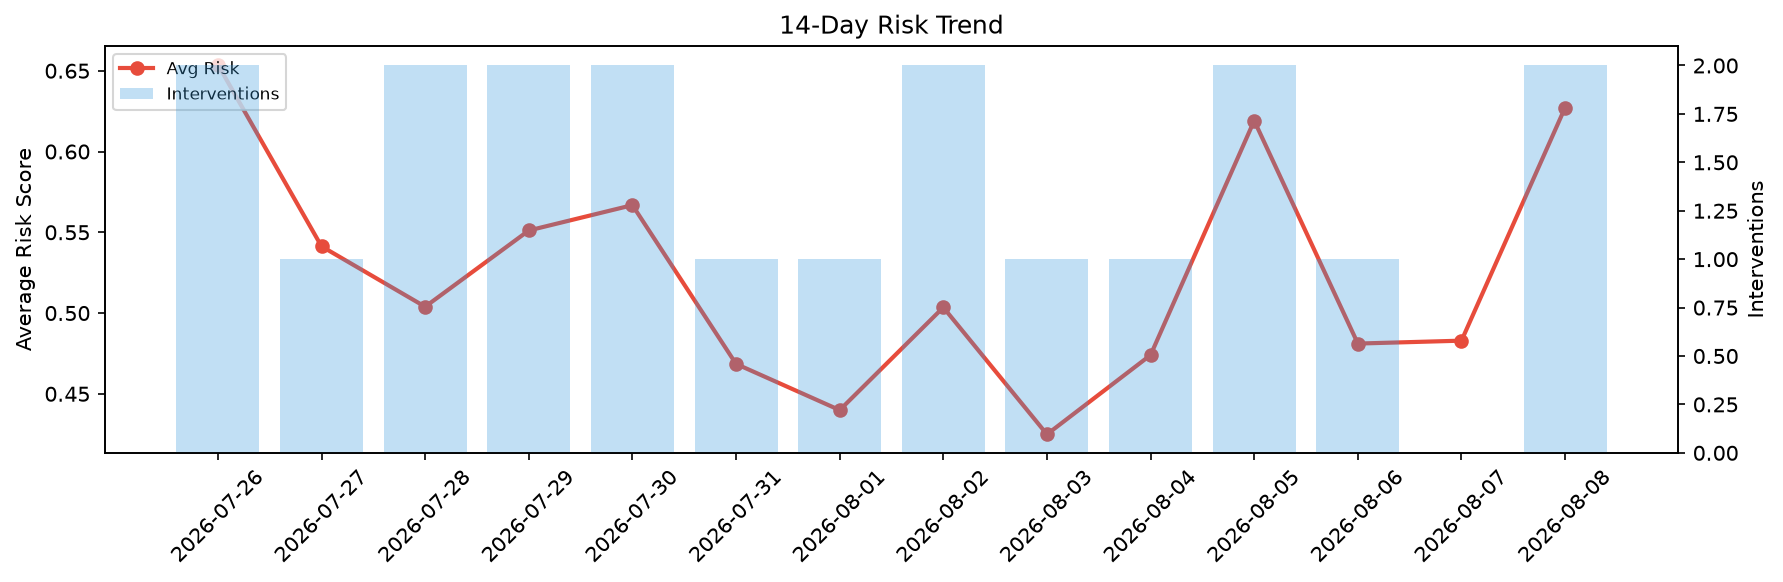
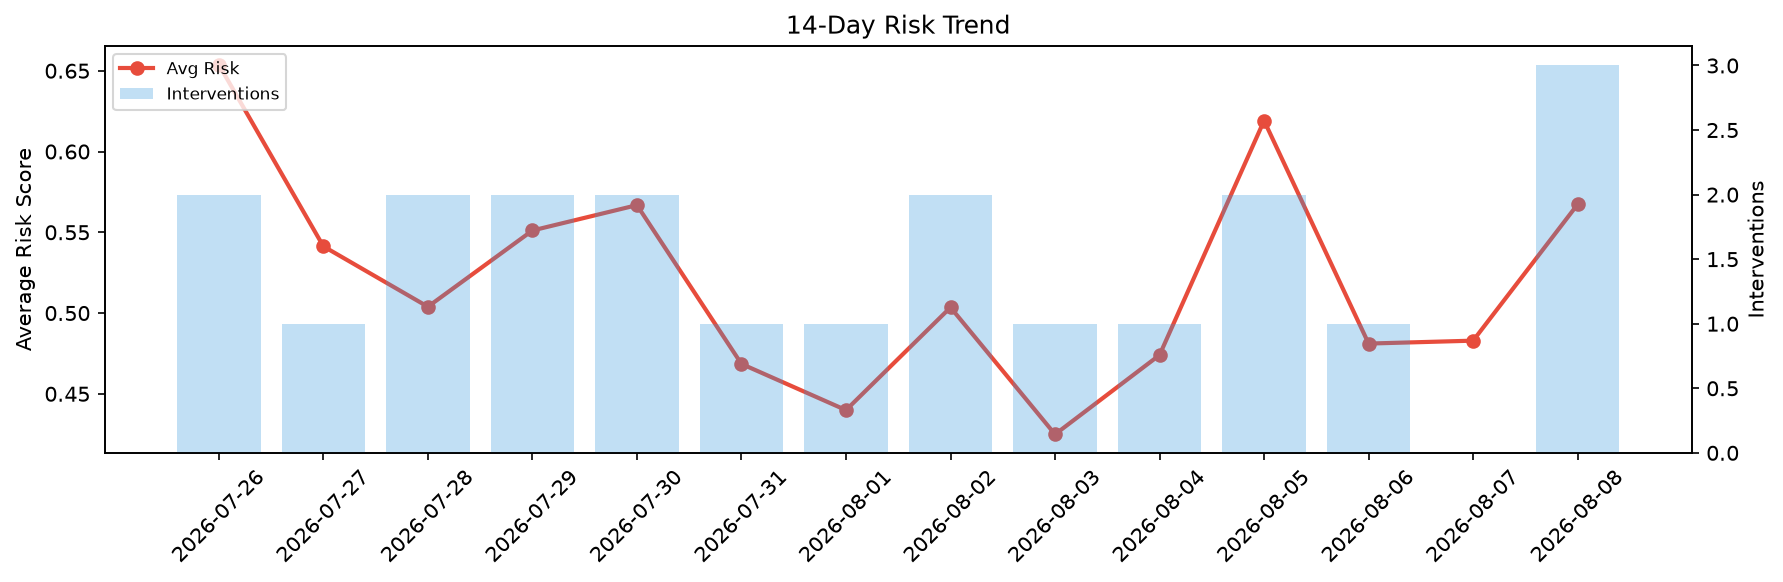
agent-improvement: daily cycle 2026-08-08T20:46

diff --git a/logs/2026-08-08.md b/logs/2026-08-08.md
@@ -1,6 +1,6 @@
 # Agent Improvement Report — 2026-08-08
 
-**Cycle ID:** `ea5a6a03` | **Avg Risk:** 0.6272 | **Interventions:** 2/4
+**Cycle ID:** `554a3c42` | **Avg Risk:** 0.5673 | **Interventions:** 3/4
 
 ![Dashboard](2026-08-08_dashboard.png)
 
@@ -10,18 +10,18 @@
 
 | Domain | Risk Score | Decision | Alerts |
 |--------|-----------|----------|--------|
-| code_review | 0.8938 | intervene | complexity, duplication, coverage |
-| incident_response | 0.6984 | intervene | severity, blast_radius |
-| data_pipeline | 0.5065 | monitor | freshness |
-| deployment | 0.4103 | monitor | rollback_rate |
+| code_review | 0.3267 | monitor | none |
+| incident_response | 0.6056 | intervene | mttr |
+| data_pipeline | 0.6975 | intervene | freshness, volume_anomaly |
+| deployment | 0.6393 | intervene | rollback_rate |
 
 ## Delta vs Yesterday
 
 | Domain | Today | Yesterday | Change |
 |--------|-------|-----------|--------|
-| code_review | 0.8938 | 0.365 | 📈 144.9% |
-| incident_response | 0.6984 | 0.4429 | 📈 57.7% |
-| data_pipeline | 0.5065 | 0.5596 | 📉 -9.5% |
-| deployment | 0.4103 | 0.5639 | 📉 -27.2% |
+| code_review | 0.3267 | 0.365 | 📉 -10.5% |
+| incident_response | 0.6056 | 0.4429 | 📈 36.7% |
+| data_pipeline | 0.6975 | 0.5596 | 📈 24.6% |
+| deployment | 0.6393 | 0.5639 | 📈 13.4% |
 
-**Refinement:** `{'adjustment': 'maintain', 'trend': 'improving', 'window': 4}`
+**Refinement:** `{'adjustment': 'tighten_thresholds', 'trend': 'degrading', 'window': 4}`
